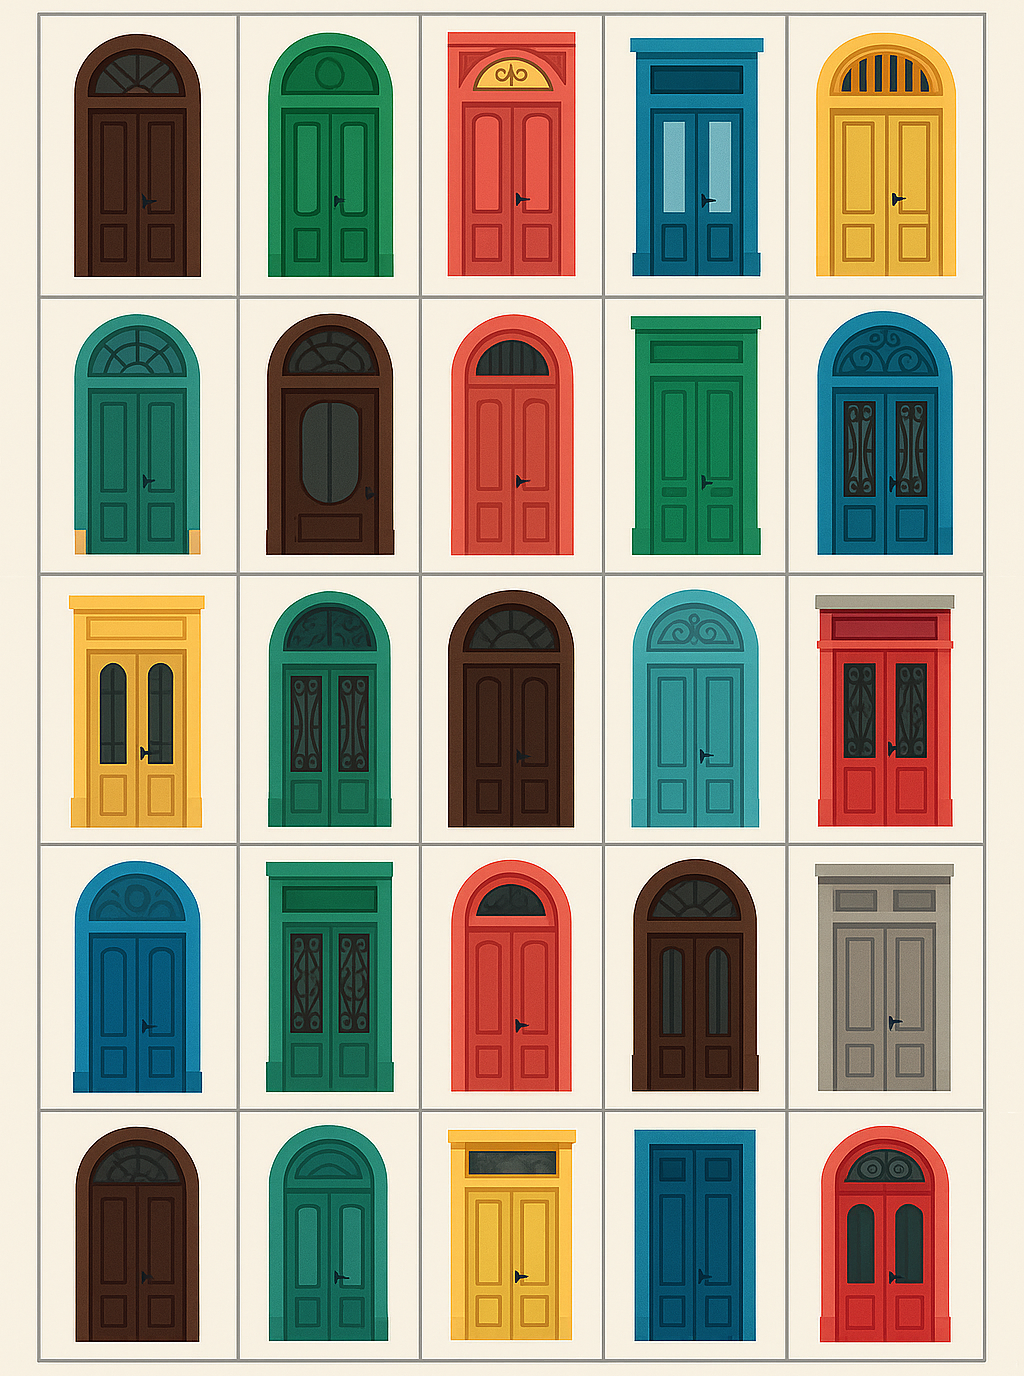
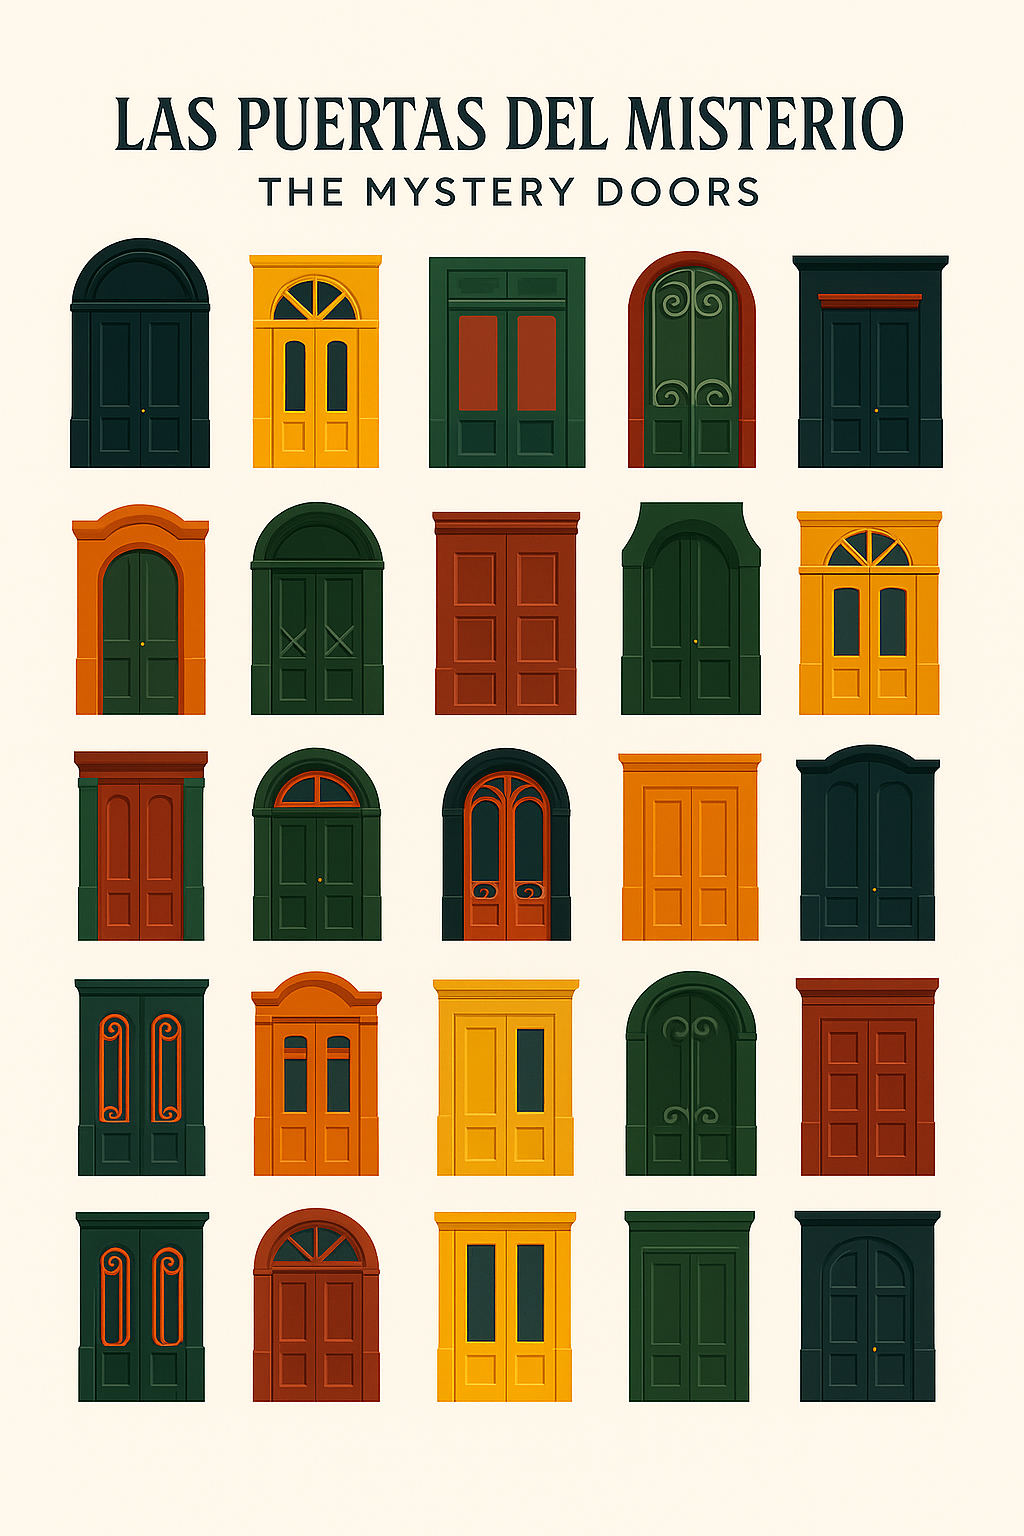
feat: scale

diff --git a/fhevm-react-template/packages/nextjs/styles/mystery-doors.css b/fhevm-react-template/packages/nextjs/styles/mystery-doors.css
@@ -1,0 +1,97 @@
+@tailwind base;
+@tailwind components;
+@tailwind utilities;
+
+@layer components {
+  /* -------- base / mobile-first (smallest) -------- */
+  .mystery-doors-container {
+    @apply relative mx-auto bg-[#e4ded7];
+    width: 320px;
+    height: 480px;
+    padding: 69px 9px 63px 19px; /* top right bottom left */
+    background-image: url("/mysterydoors3.png");
+    background-repeat: no-repeat;
+    background-position: center;
+    background-size: 320px 480px;
+  }
+
+  .mystery-doors-grid {
+    @apply grid;
+    grid-template-columns: repeat(5, 50px);
+    grid-template-rows: repeat(5, 70px);
+    row-gap: 9px;
+    column-gap: 7px;
+  }
+
+  .mystery-cell {
+    @apply flex items-center justify-center;
+    width: 50px;
+    height: 70px;
+  }
+
+  /* ---------------- sm (≈60% scale) ---------------- */
+  @media (width >= 40rem) {
+    .mystery-doors-container {
+      width: 615px;
+      height: 922px;
+      padding: 132px 18px 120px 36px;
+      background-size: 615px 922px;
+    }
+
+    .mystery-doors-grid {
+      grid-template-columns: repeat(5, 96px);
+      grid-template-rows: repeat(5, 134px);
+      row-gap: 18px;
+      column-gap: 14px;
+    }
+
+    .mystery-cell {
+      width: 96px;
+      height: 134px;
+    }
+  }
+
+  /* ---------------- lg (≈85% scale) ---------------- */
+  @media (width >= 64rem) {
+    .mystery-doors-container {
+      width: 870px;
+      height: 1305px;
+      padding: 187px 26px 170px 51px;
+      background-size: 870px 1305px;
+    }
+
+    .mystery-doors-grid {
+      grid-template-columns: repeat(5, 136px);
+      grid-template-rows: repeat(5, 190px);
+      row-gap: 26px;
+      column-gap: 20px;
+    }
+
+    .mystery-cell {
+      width: 136px;
+      height: 190px;
+    }
+  }
+
+  /* ------------- xl (original 1024×1536) ----------- */
+  @media (width >= 80rem) {
+    .mystery-doors-container {
+      width: 1024px;
+      height: 1536px;
+      padding: 220px 30px 200px 60px;
+      background-size: 1024px 1536px;
+    }
+
+    .mystery-doors-grid {
+      grid-template-columns: repeat(5, 160px);
+      grid-template-rows: repeat(5, 224px);
+      row-gap: 30px;
+      column-gap: 24px;
+    }
+
+    .mystery-cell {
+      width: 160px;
+      height: 224px;
+    }
+  }
+}

diff --git a/fhevm-react-template/packages/nextjs/app/_components/MysteryDoorsGrid.tsx b/fhevm-react-template/packages/nextjs/app/_components/MysteryDoorsGrid.tsx
@@ -1,3 +1,4 @@
+import "~~/styles/mystery-doors.css";
 import React from "react";
 
 /**
@@ -43,28 +44,12 @@ export function MysteryDoorsGridMeasured({
 
   return (
     <div
-      className={`relative mx-auto rounded-2xl shadow-lg overflow-hidden ${className}`}
-      style={{
-        width: CANVAS_W,
-        height: CANVAS_H,
-        backgroundColor: "rgb(228, 222, 215)",
-        backgroundImage: `url("${bgUrl}")`,
-        backgroundRepeat: "no-repeat",
-        backgroundPosition: "center",
-        backgroundSize: `${CANVAS_W}px ${CANVAS_H}px`, // exact fit
-        //boxSizing: "border-box",
-        padding: `220px 60px 200px 60px`,
-      }}
+      className={`relative mx-auto rounded-2xl shadow-lg overflow-hidden mystery-doors-container ${className}`}
       aria-label="Las Puertas del Misterio 5×5 measured grid"
     >
       {/* 1px-ish lines via gap over a dark backdrop */}
       <div
-        className="h-full w-full grid"
-        style={{
-          gridTemplateColumns: `repeat(5, ${CELL_W}px)`,
-          gridTemplateRows: `repeat(5, ${CELL_H}px)`,
-          gap: `30px 24px`,
-        }}
+        className="h-full w-full grid mystery-doors-grid"
       >
         {cells.map((n, i) => {
           const active = isSelected(n);
@@ -75,15 +60,11 @@ export function MysteryDoorsGridMeasured({
               tabIndex={0}
               aria-label={`Door cell ${n}`}
               onClick={() => handleActivate(n)}
-              className={`flex items-center justify-center
+              className={`mystery-cell flex items-center justify-center
                        select-none cursor-pointer transition-transform duration-150
                        hover:scale-[1.03] active:scale-[0.98] rounded-lg  ${active ? "bg-emerald-400/40 text-white shadow-lg scale-105"
                   : "bg-red-100/40 hover:bg-white text-gray-800"
                 }`}
-              style={{
-                width: CELL_W,
-                height: CELL_H,
-              }}
             >
               <span className="text-neutral-900/90 font-semibold text-xl drop-shadow-[0_1px_0_rgba(255,255,255,0.6)]">
                 {n}

diff --git a/fhevm-react-template/packages/nextjs/app/_components/MysteryDoors.tsx b/fhevm-react-template/packages/nextjs/app/_components/MysteryDoors.tsx
@@ -116,11 +116,11 @@ export const MysteryDoors = () => {
 
 
   return (
-    <div className="max-w-6xl mx-auto p-6 space-y-6 text-gray-900">
+    <div className="max-w-6xl mx-auto text-gray-900">
       {/* Header */}
-      <div className="text-center mb-8 text-black">
+      <div className="text-center mb-8 text-black p-6 space-y-6">
         <h1 className="text-3xl font-bold mb-2">Mystery Doors</h1>
-        <p className="text-gray-600">Interact with the Fully Homomorphic Encryption Mystery Doors contract</p>
+        <p className="text-gray-600">Interact with the Fully Homomorphic Encryption Mystery Doors contract. Scroll down for debugging information.</p>
       </div>
 
 
@@ -129,7 +129,7 @@ export const MysteryDoors = () => {
 
 
       {/* Action Buttons */}
-      <div className="grid grid-cols-1 md:grid-cols-3 gap-4 text-black">
+      <div className="grid grid-cols-1 md:grid-cols-3 gap-4 text-black p-6 space-y-6">
 
         <button
           className={mysteryDoors.isGuessesDecrypted ? successButtonClass : primaryButtonClass}
@@ -158,14 +158,14 @@ export const MysteryDoors = () => {
         </button>
         <div className="join">
           <div>
-            <label className="input validator join-item">
-              <input type="text" placeholder="Player name" value={playerName}
+            <label className="input input-lg validator join-item">
+              <input className="input-lg" type="text" placeholder="Player name" value={playerName}
                 onChange={(e) => setPlayerName(e.target.value)} required />
             </label>
             <div className="validator-hint hidden">Enter your name</div>
           </div>
           <button disabled={!playerName} onClick={() => mysteryDoors.callJoinGame(playerName)}
-            className="btn btn-neutral join-item">Join Game</button>
+            className="btn btn-lg btn-neutral join-item">Join Game</button>
         </div>
       </div>
 

diff --git a/fhevm-react-template/packages/nextjs/app/_components/MysteryDoorsAdmin.tsx b/fhevm-react-template/packages/nextjs/app/_components/MysteryDoorsAdmin.tsx
@@ -126,7 +126,7 @@ export const MysteryDoorsAdmin = () => {
 
 
       {/* Game grid */}
-      <MysteryDoorsGridMeasured bgUrl={"/mysterydoors3.png"} onCellClick={(i) => toggleDoor(i)} isSelected={(i) => isSelected(i)} />
+      <MysteryDoorsGridMeasured bgUrl={"/mysterydoors.png"} onCellClick={(i) => toggleDoor(i)} isSelected={(i) => isSelected(i)} />
 
 
       {/* Action Buttons */}

diff --git a/fhevm-react-template/packages/nextjs/app/_components/FHECounterDemo.tsx b/fhevm-react-template/packages/nextjs/app/_components/FHECounterDemo.tsx
@@ -178,7 +178,7 @@ export const FHECounterDemo = () => {
       )}
 
       {/* Status Cards */}
-      <div className="grid grid-cols-1 lg:grid-cols-2 gap-6">
+      <div className="grid xs:grid-cols-1 lg:grid-cols-2 gap-6">
         <div className={sectionClass}>
           <h3 className={titleClass}>🔧 FHEVM Instance</h3>
           <div className="space-y-3">
